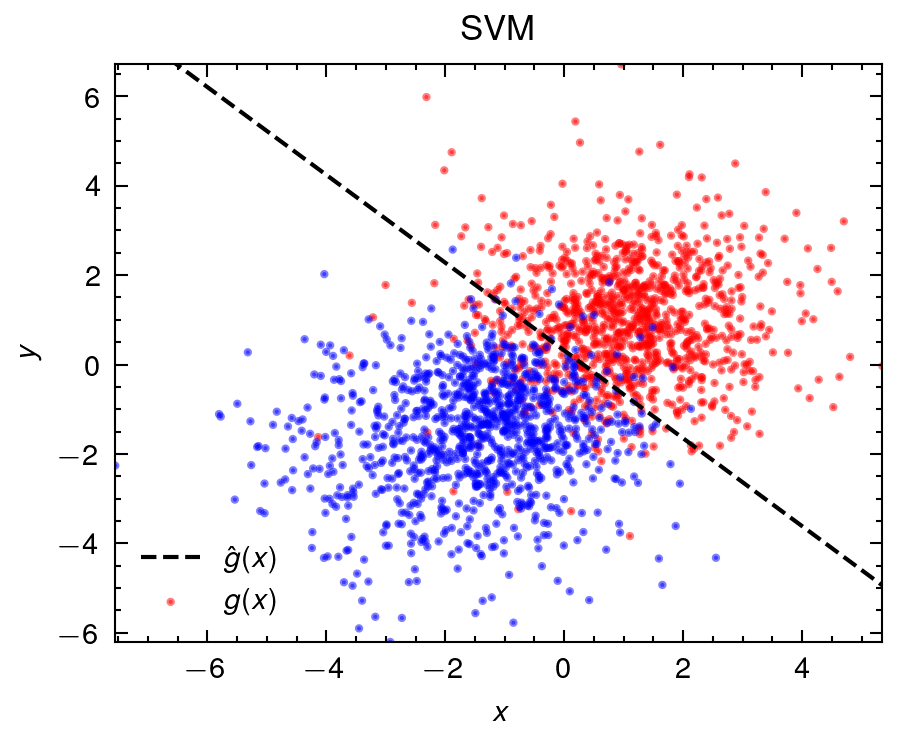
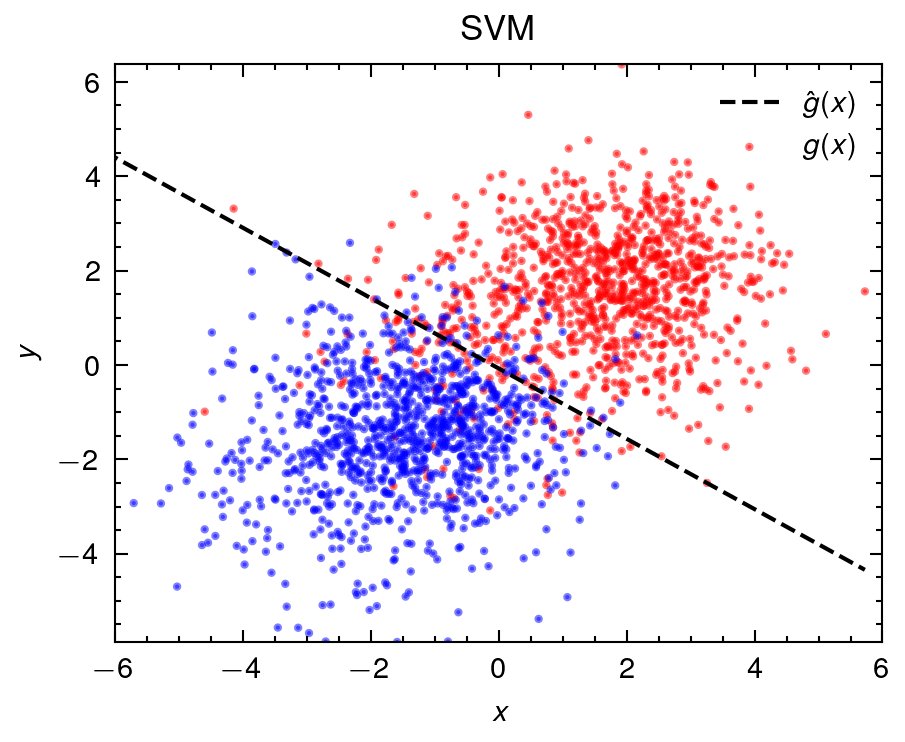
Data fixed

diff --git a/Machine_Learning/svm/src/main.rs b/Machine_Learning/svm/src/main.rs
@@ -4,7 +4,7 @@ const N: usize = 1000;
 
 #[allow(non_snake_case)]
 fn main() {
-    let n1_x = Normal(1f64, 1f64);
+    let n1_x = Normal(2f64, 1f64);
     let n1_y = Normal(1f64, 1.5f64);
     let n2_x = Normal(-1f64, 1f64);
     let n2_y = Normal(-2f64, 1.5f64);

diff --git a/Machine_Learning/svm/svm_plot.py b/Machine_Learning/svm/svm_plot.py
@@ -29,7 +29,7 @@ pparam = dict(
     title = r"SVM",
     xscale = 'linear',
     yscale = 'linear',
-    xlim = (x.min(), x.max()),
+    xlim = (-6, 6),
     ylim = (y.min(), y.max()),
 )
 
